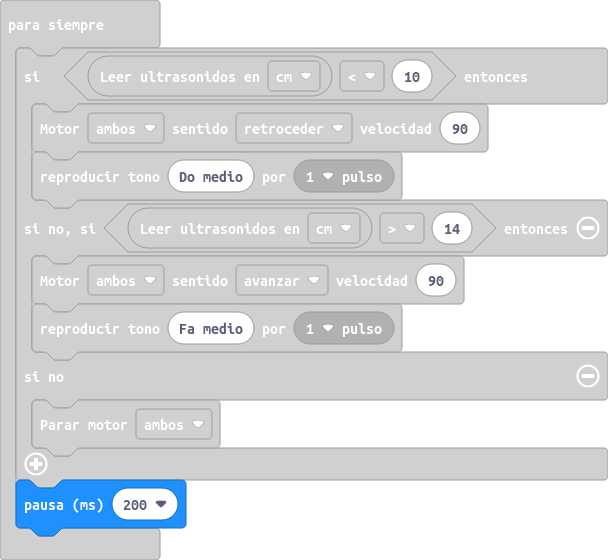
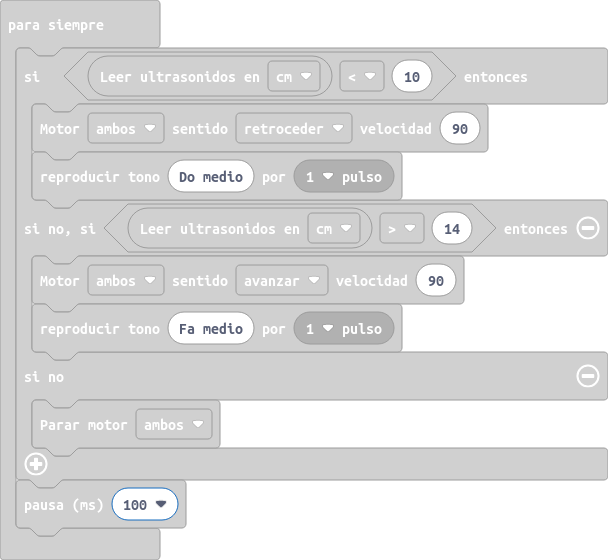
Introduzco pausa

Changed region(s): [[0.0, 0.85, 0.3125, 0.9714]]

diff --git a/main.ts b/main.ts
@@ -10,5 +10,5 @@ basic.forever(function () {
     } else {
         maqueen.motorStop(maqueen.Motors.All)
     }
-    basic.pause(200)
+    basic.pause(100)
 })
